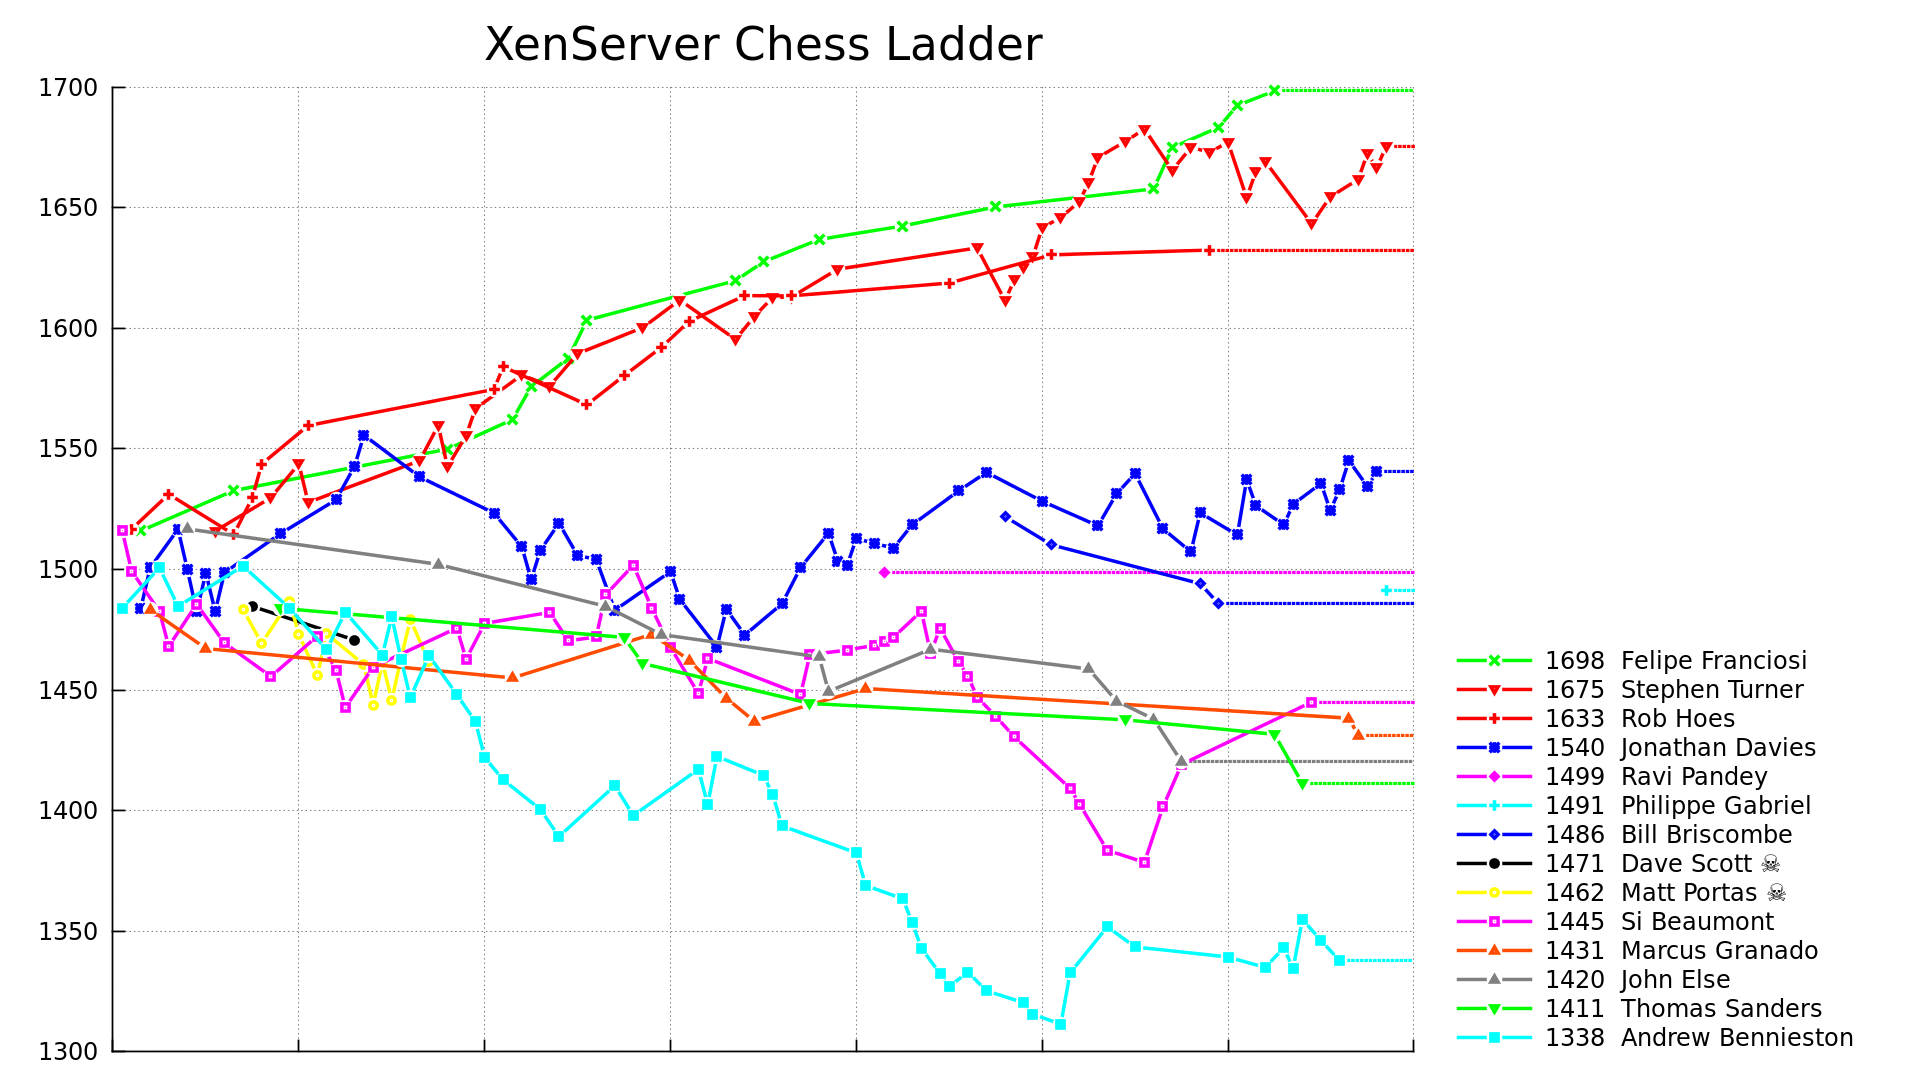
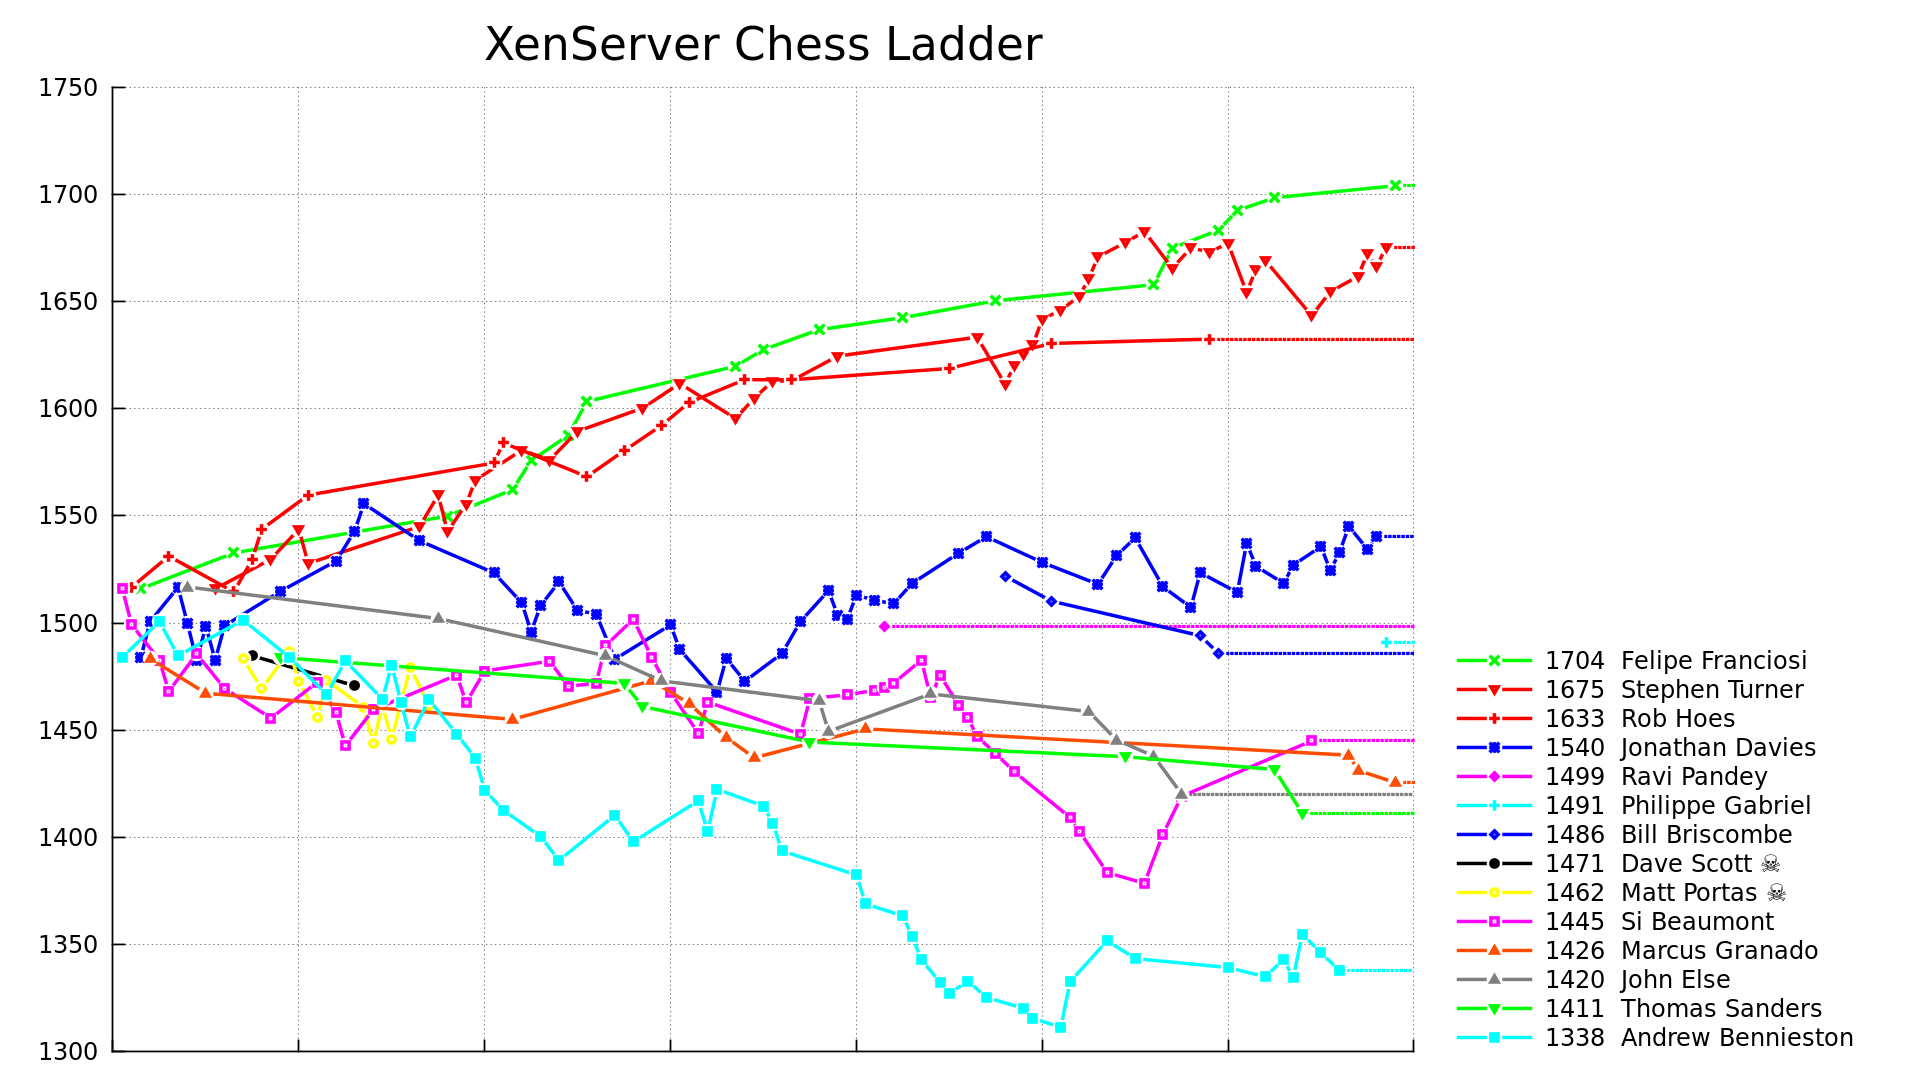
Travis build 263 pushed to gh-pages

diff --git a/index.md b/index.md
@@ -3,7 +3,7 @@ layout: default
 ---
 # XenServer Chess Ladder
 ### Ladder
-     1.  Felipe Franciosi                   1698  (17 / 17)
+     1.  Felipe Franciosi                   1704  (18 / 18)
      2.  Stephen Turner                     1675  (35 / 44)
      3.  Rob Hoes                           1633  (14 / 17)
      4.  Jonathan Davies                    1540  (30 / 55)
@@ -13,7 +13,7 @@ layout: default
      8.  Dave Scott                      ☠  1471  (0 / 2)
      9.  Matt Portas                     ☠  1462  (5 / 13)
     10.  Si Beaumont                        1445  (18.5 / 44)
-    11.  Marcus Granado                     1431  (2 / 10)
+    11.  Marcus Granado                     1426  (2 / 11)
     12.  John Else                          1420  (2 / 11)
     13.  Thomas Sanders                     1411  (0 / 7)
     14.  Andrew Bennieston                  1338  (12 / 48)
@@ -30,6 +30,7 @@ layout: default
           Stephen Turner - Ravi Pandey
           Thomas Sanders - Marcus Granado
 ### Games
+    2014-05-16:       Marcus Granado - Felipe Franciosi          0 - 1
     2014-05-14:       Stephen Turner - Philippe Gabriel          1 - 0
     2014-05-14:      Jonathan Davies - Stephen Turner          0.5 - 0.5
     2014-05-14:      Jonathan Davies - Stephen Turner            0 - 1
